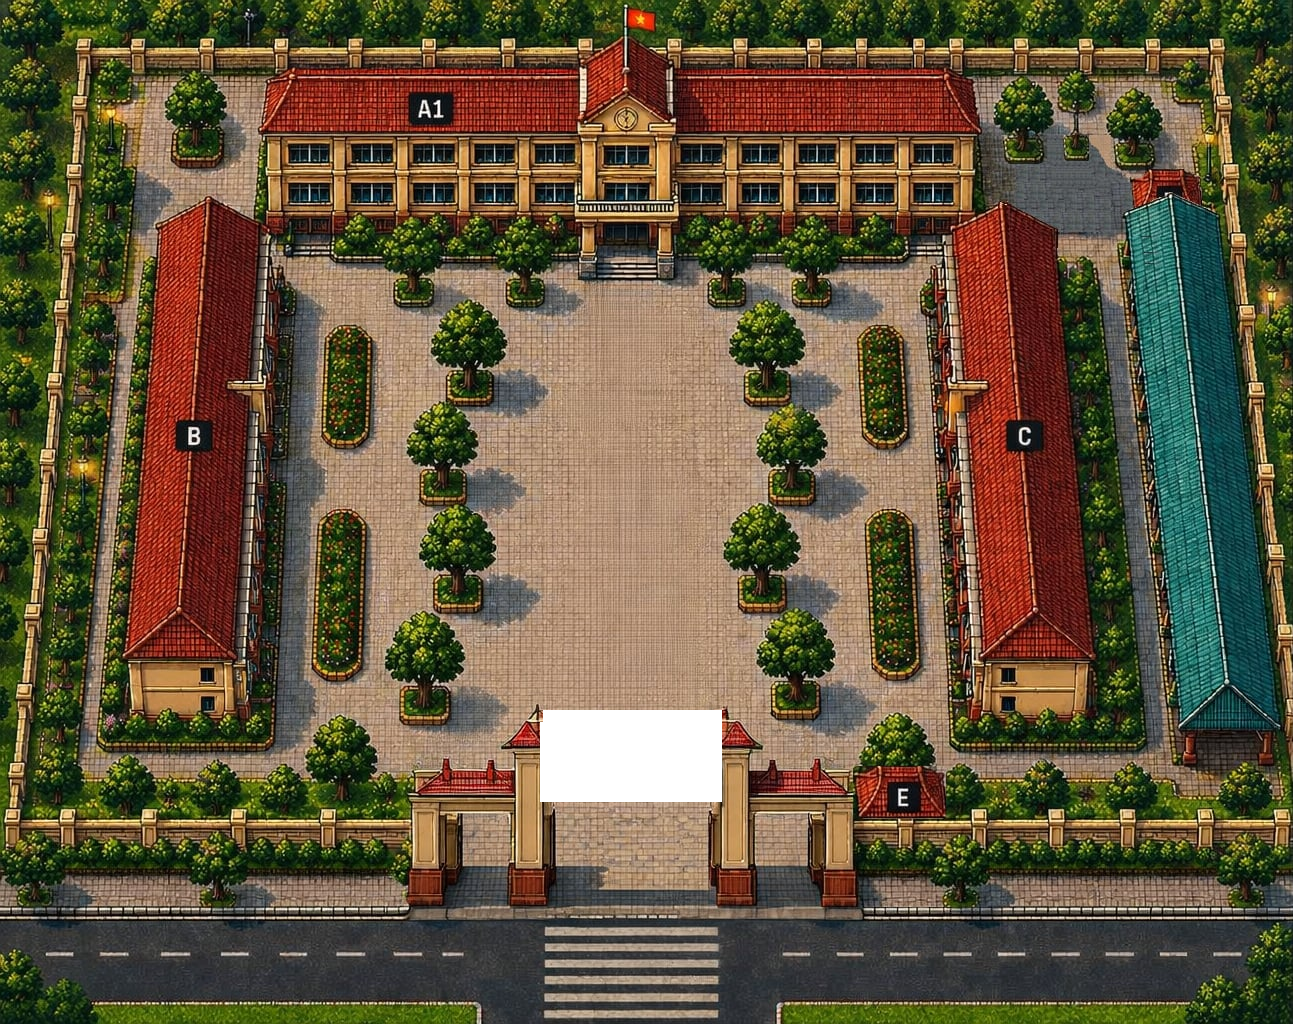
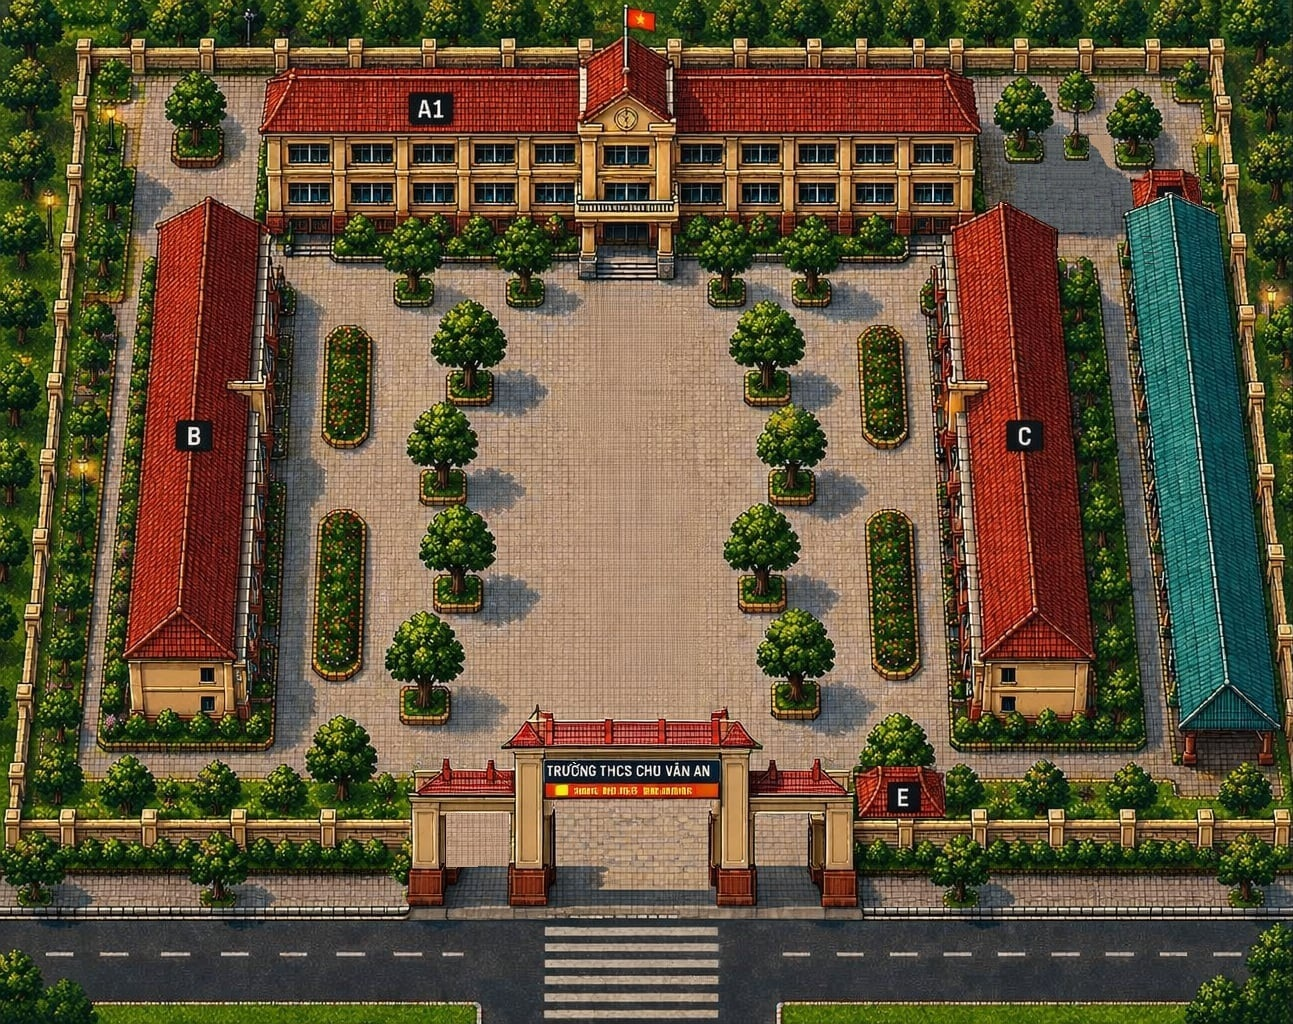
update

Changed region(s): [[0.4022, 0.6875, 0.5568, 0.7812], [0.3403, 0.7812, 0.4022, 0.8438]]

diff --git a/test.html b/test.html
@@ -65,13 +65,14 @@ ctx.imageSmoothingEnabled = false;
 
         const congImg = new Image();
         congImg.src = "cong.png";
-
+        const tanCayImg = new Image();
+        tanCayImg.src = "tanCay.png";
         // KÍCH THƯỚC MAP THẬT
         const MAP_WIDTH = 1280;
         const MAP_HEIGHT = 960;
         
-        let GATE_X = 535;
-        let GATE_Y = 665;
+        let GATE_X = 405;
+        let GATE_Y = 659    ;
         // =========================
         // CAMERA
         // =========================
@@ -204,9 +205,9 @@ ctx.imageSmoothingEnabled = false;
             },
 
             {
-                x: 510,
+                x: 505,
                 y: 670,
-                width: 40,
+                width: 45,
                 height: 180
             },
 
@@ -279,7 +280,41 @@ ctx.imageSmoothingEnabled = false;
             { x: 765, y: 640, width: 47, height: 35 }
 
         ];
+        const trees = [
 
+    { x: 390, y: 260 },
+    { x: 500, y: 260 },
+
+    { x: 700, y: 260 },
+    { x: 785, y: 260 },
+
+    { x: 440, y: 345 },
+    { x: 735, y: 345 },
+
+    { x: 415, y: 440 },
+    { x: 760, y: 440 },
+
+    { x: 430, y: 540 },
+    { x: 732, y: 540 },
+
+    { x: 397, y: 643 },
+    { x: 765, y: 640 }
+
+];
+     const TREE_TOPS = [
+
+    { x: 405, y: 250 },
+    { x: 693, y: 255 },
+
+    { x: 375, y: 350 },
+    { x: 722, y: 350 },
+
+    { x: 380, y: 450 },
+    { x: 685, y: 445 },
+
+    { x: 353, y: 545 },
+    { x: 717, y: 545 } 
+];
         // =========================
         // INPUT
         // =========================
@@ -293,6 +328,16 @@ ctx.imageSmoothingEnabled = false;
         document.addEventListener("keyup", (e) => {
             keys[e.key.toLowerCase()] = false;
         });
+        document.addEventListener("keydown", e => {
+
+    if (e.key === "j") GATE_X -= 1;
+    if (e.key === "l") GATE_X += 1;
+
+    if (e.key === "i") GATE_Y -= 1;
+    if (e.key === "k") GATE_Y += 1;
+
+    console.log(GATE_X, GATE_Y);
+});
 
         // =========================
         // COLLISION
@@ -308,16 +353,6 @@ ctx.imageSmoothingEnabled = false;
                 a.y + a.height > b.y
             );
         }
-        document.addEventListener("keydown", e => {
-
-    if (e.key === "j") GATE_X -= 5;
-    if (e.key === "l") GATE_X += 5;
-
-    if (e.key === "i") GATE_Y -= 5;
-    if (e.key === "k") GATE_Y += 5;
-
-    console.log(GATE_X, GATE_Y);
-});
 
         // =========================
         // UPDATE
@@ -518,7 +553,24 @@ if (mapImg.complete) {
         ctx.drawImage(
             congImg,
             GATE_X,
-            GATE_Y
+            GATE_Y,
+            445,
+            193
+        );
+    }
+}
+function drawTreeTops() {
+
+    if (!tanCayImg.complete) return;
+
+    for (const tree of TREE_TOPS) {
+
+        ctx.drawImage(
+            tanCayImg,
+            tree.x+30,
+            tree.y+30,
+            80,
+            70
         );
     }
 }
@@ -555,15 +607,14 @@ function drawPlayer() {
 
 
 // Nếu nhân vật ở trong sân trường
+drawPlayer();
+drawTreeTops();
+drawGate();
+
 if (player.y + player.height < 760) {
 
-    drawPlayer();
     drawGate();
 
-} else {
-
-    drawGate();
-    drawPlayer();
 }
 
             // ======================
@@ -577,24 +628,24 @@ if (player.y + player.height < 760) {
                 player.x,
                 player.y,
                 player.width,
-                player.height
-            );
+               player.height
+           );
 
             // ======================
             // OBSTACLE HITBOX
             // ======================
 
-            // ctx.strokeStyle = "red";
+             ctx.strokeStyle = "red";
 
-           // for (const obstacle of obstacles) {
+            for (const obstacle of obstacles) {
 
-             //   ctx.strokeRect(
-               //     obstacle.x,
-                 //   obstacle.y,
-                   // obstacle.width,
-                   // obstacle.height
-               // );
-            //}
+                ctx.strokeRect(
+                    obstacle.x,
+                    obstacle.y,
+                    obstacle.width,
+                    obstacle.height
+                );
+            }
 
             ctx.restore();
         } 